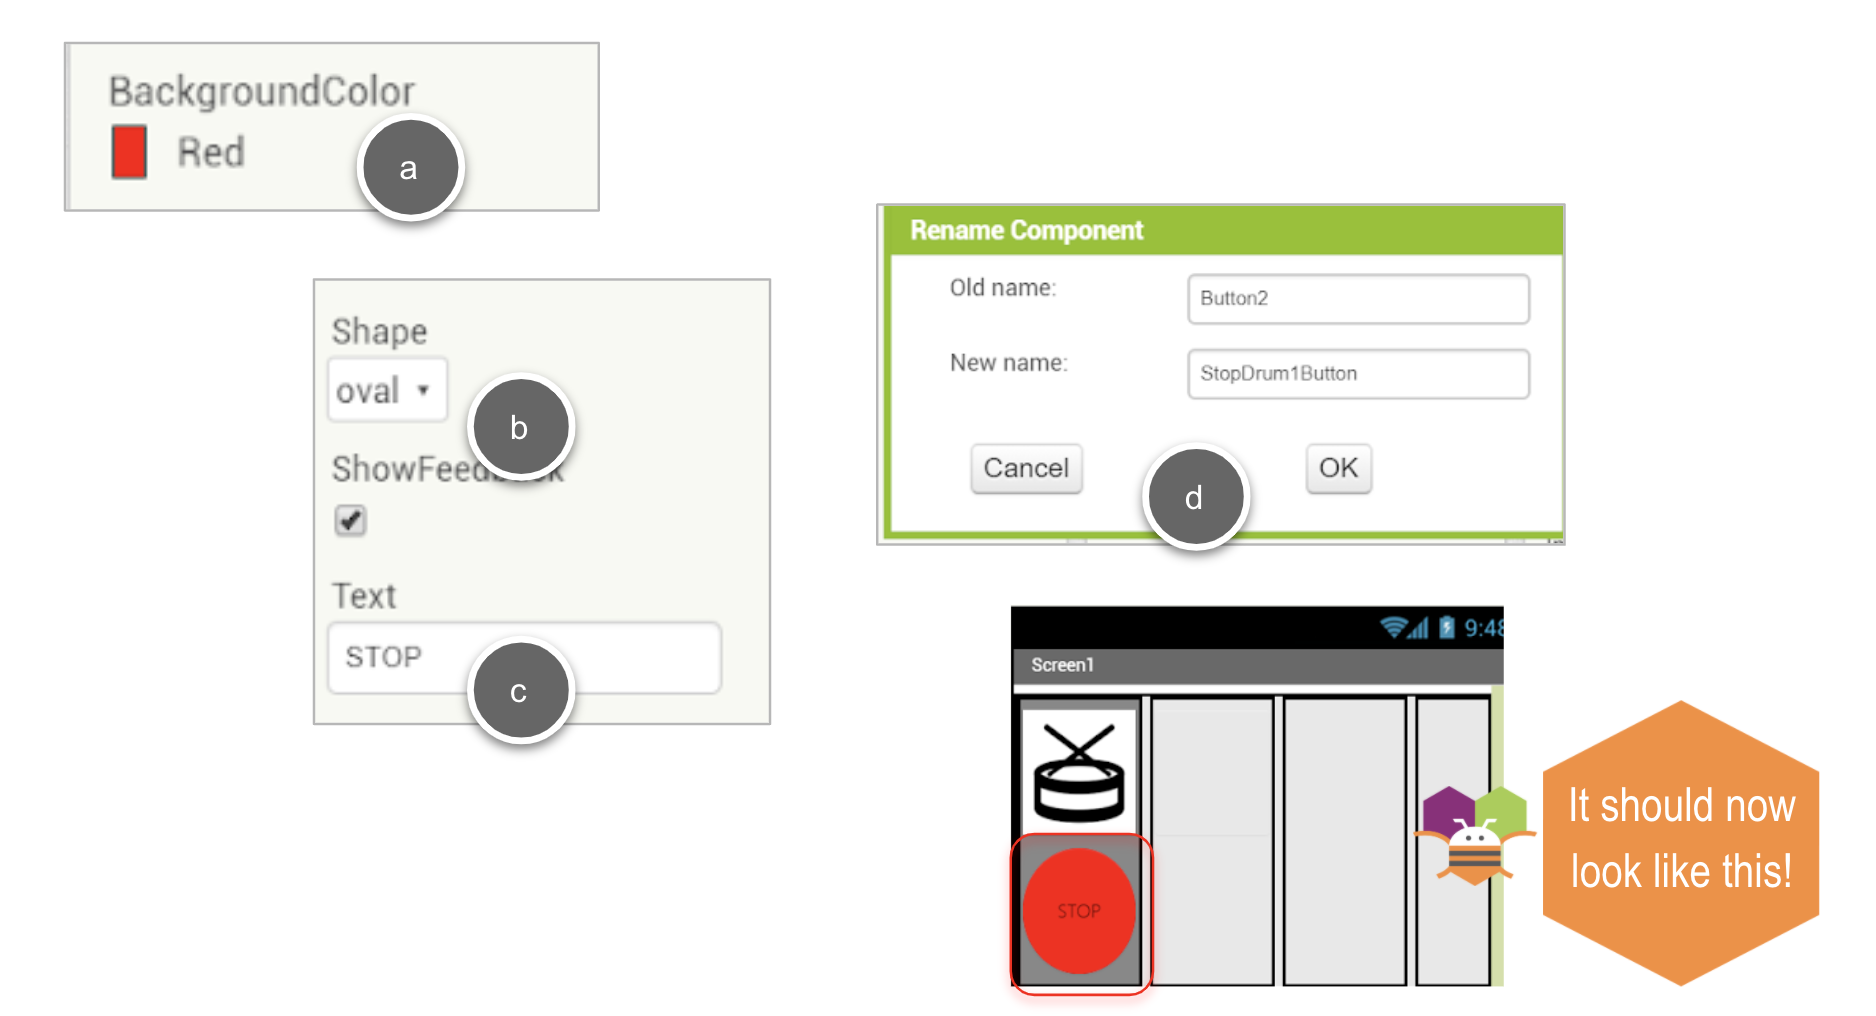
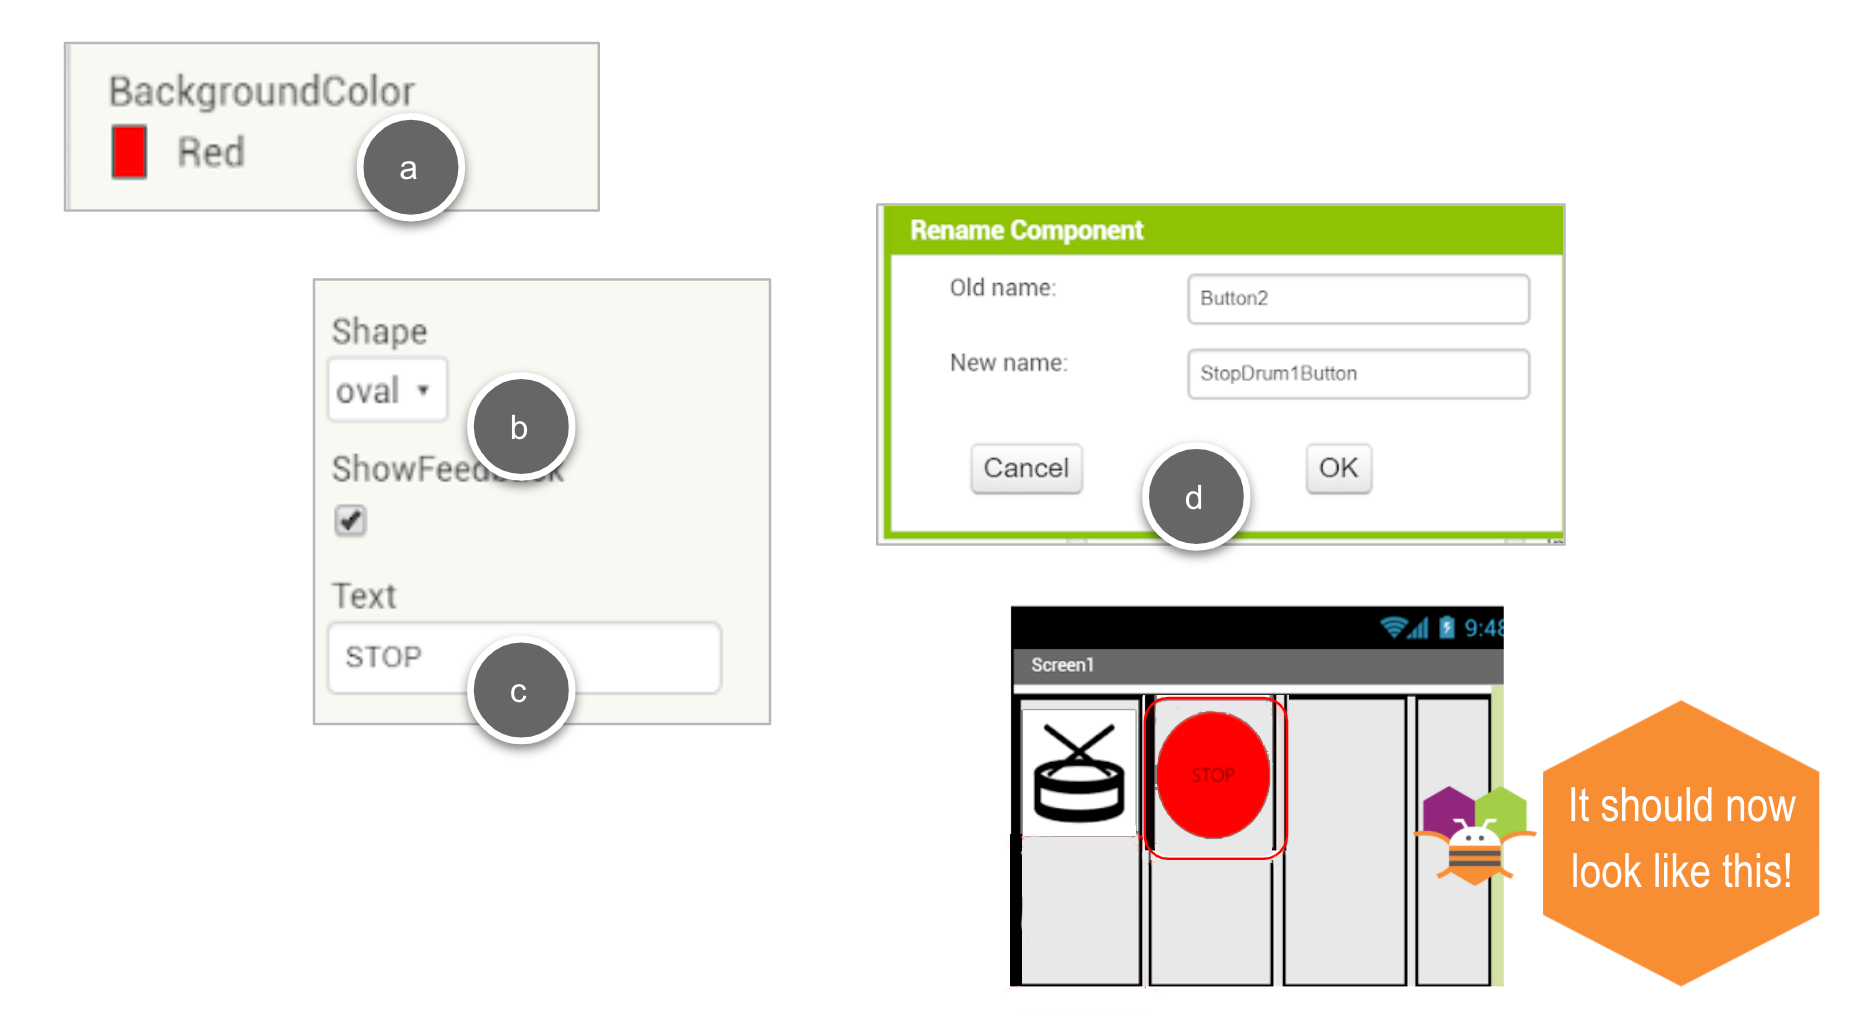
further edits based on feedback from Selim

diff --git a/ct/tutorials/music_maker.md b/ct/tutorials/music_maker.md
@@ -54,11 +54,11 @@ You can decide which type of layout you want for your app. You can arrange butto
 
 ![3 buttons in a horizontalarrangement"](../images/musicMaker/horizontal.png){:.enlargeImage}
 
-<span class="icon" alt="button"></span> Buttons added to a <span class="icon" alt="vertical"></span> VerticalArrangement appear below each other. This <span class="icon" alt="vertical"></span> VerticalArrangement's <i>Height</i> is set to <span class="properties">15%</span> of the Screen. Its <i>AlignHorizontal</i> property is set to <span class="properties">Left</span>. That is why the <span class="icon" alt="button"></span> Buttons appear below each other on the left side of the arrangement.
+<span class="icon" alt="button"></span> Buttons added to a <span class="icon" alt="vertical"></span> VerticalArrangement appear below each other. This <span class="icon" alt="vertical"></span> VerticalArrangement's <i>Height</i> is set to <span class="properties">25%</span> of the Screen. Its <i>AlignHorizontal</i> property is set to <span class="properties">Left</span>. That is why the <span class="icon" alt="button"></span> Buttons appear below each other on the left side of the arrangement.
 
 ![3 buttons in a verticalarrangement"](../images/musicMaker/vertical.png){:.enlargeImage}
 
-<strong>This is just a starting point. Pick the arrangement that you like best, and delete the other arrangements. Or delete them all, and start over! The design of your app is up to you.</strong>
+This is just a starting point. Pick the arrangement that you like best, and delete the other arrangements. Or delete them all, and start over! The design of your app is up to you.
 
 ## Add or Change Buttons
 
@@ -75,6 +75,8 @@ You can change the <i>Width</i> and <i>Height</i> properties of both your <span 
 Note that <span class="properties">Fill Parent</span> means to fill the component in which the current component is contained. For a <span class="icon" alt="button"></span> Button, its parent would be the <strong>Arrangement</strong> in which it is contained. For a <span class="icon" alt="horizontal"></span> HorizontalArrangement or <span class="icon" alt="vertical"></span> VerticalArrangement, its parent most likely will be <strong>Screen1</strong>.
 
 The <i>Width</i> and <i>Height</i> can be set to an exact pixel value, or to a percentage. Using a percentage is recommended to ensure your components resize according to the size of the mobile device used.
+
+## Arrange Buttons
 
 Add more <span class="icon" alt="button"></span> Buttons so you have at least 4 instruments. Below are two examples of possible layouts.
 ![sample 1 of musicmaker app](../images/musicMaker/musicmaker-sample1.png){:.enlargeImage}
@@ -116,7 +118,7 @@ Code the your first <span class="icon" alt="button"></span> Button. Using the dr
 
 The <span class="icon" alt="button"></span> Button to stop the instrument sound uses the same idea. Drag out a <span class="control">Button.Click</span> event block for the matching Stop Button for this instrument. Again, we’ll use the Drums as an example.
 
-Drag out a matching <span class="procedures">Player.Stop</span> block and snap it into the <span class="control">StopButton.Click</span> event. This will make the <span class="icon" alt="player"></span> Player stop playing.
+Drag out a matching <span class="procedures">Player.Stop</span> block and snap it into the (in this example) <span class="control">StopDrum1Button.Click</span> event. This will make the <span class="icon" alt="player"></span> Player stop playing.
 
 ![](../images/musicMaker/stop-drum-button-click.gif){:.enlargeImage}
 
@@ -134,6 +136,8 @@ Test with the AI Companion through the Connect menu, and then scan the displayed
 Now that you have one <span class="icon" alt="button"></span> Button set working, add code for your other instruments. Make sure you have a <span class="icon" alt="button"></span> Button to start the instrument, and one to stop it. Also, make sure you add a new <span class="icon" alt="player"></span> Player component for each instrument. Remember to name them appropriately!
 
 # Expand your app
+
+Here are some ideas to add to your MusicMaker app!
 
 **Record and play back your music**
 <br />Use the <span class="icon" alt="soundRecorder"></span> SoundRecorder component to record music, and then add another <span class="icon" alt="player"></span> Player component to play the resulting sound.
